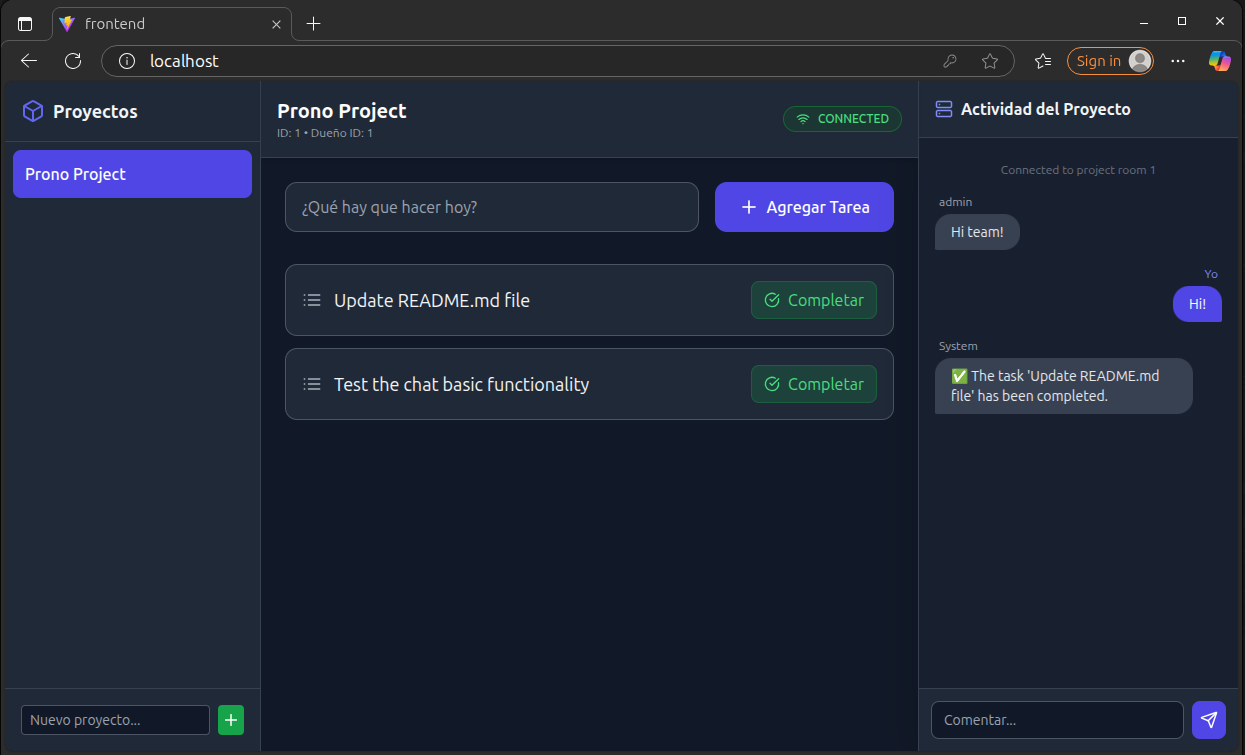
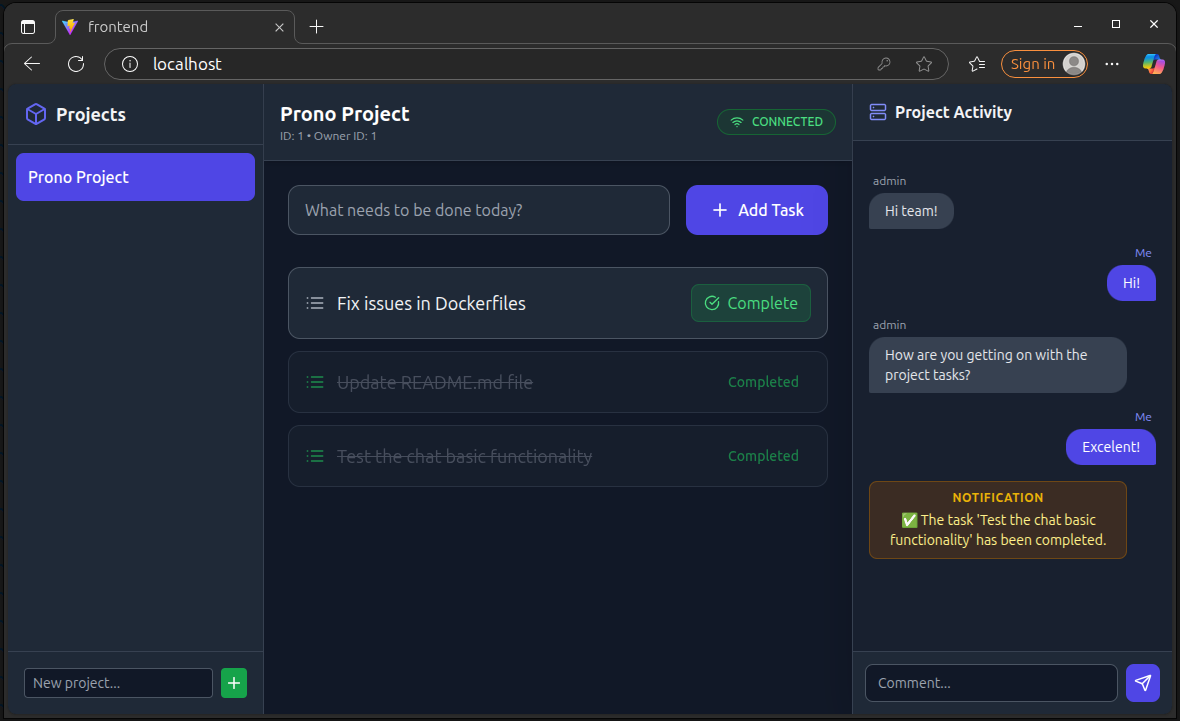
refactor: Translate frontend UI and comments from Spanish to English, and update the demo image.

diff --git a/frontend/src/App.tsx b/frontend/src/App.tsx
@@ -1,7 +1,6 @@
 import React, { useState, useEffect, useRef, useCallback } from "react";
 import {
   Send,
-  User,
   Server,
   Wifi,
   WifiOff,
@@ -11,7 +10,7 @@ import {
   Box,
 } from "lucide-react";
 
-// --- CONFIGURACIÓN ---
+// --- CONFIGURATION ---
 const API_URL = "http://localhost:80/api";
 const WS_URL = "ws://localhost:80/ws/projects";
 
@@ -53,7 +52,7 @@ const usePronoSocket = (projectId: number | null, token: string | null) => {
   useEffect(() => {
     if (!projectId || !token) return;
 
-    // Resetear mensajes al cambiar de proyecto
+    // Reset messages when changing projects
     setMessages([]);
 
     const ws = new WebSocket(`${WS_URL}/${projectId}/?token=${token}`);
@@ -62,12 +61,12 @@ const usePronoSocket = (projectId: number | null, token: string | null) => {
 
     ws.onopen = () => {
       setStatus("CONNECTED");
-      console.log("🔌 WS Conectado");
+      console.log("🔌 WS Connected");
     };
 
     ws.onclose = () => {
       setStatus("DISCONNECTED");
-      console.log("🔌 WS Desconectado");
+      console.log("🔌 WS Disconnected");
     };
 
     ws.onmessage = (event) => {
@@ -124,7 +123,7 @@ function App() {
 
   // --- API CALLS ---
 
-  // 1. Cargar Proyectos
+  // 1. Load Projects
   const fetchProjects = useCallback(async () => {
     if (!token) return;
     const res = await fetch(`${API_URL}/projects/`, {
@@ -133,27 +132,27 @@ function App() {
     if (res.ok) {
       const data = await res.json();
       setProjects(data);
-      // Seleccionar el primero por defecto si no hay seleccionado
+      // Select the first one by default if none selected
       if (!selectedProject && data.length > 0) setSelectedProject(data[0]);
     }
   }, [token, selectedProject]);
 
-  // 2. Cargar Tareas (Cuando cambia el proyecto)
+  // 2. Load Tasks (When project changes)
   const fetchTasks = useCallback(async () => {
     if (!token || !selectedProject) return;
-    // Django Ninja endpoint para detalles del proyecto (incluye tareas anidadas o lo hacemos aparte)
-    // Usaremos el endpoint de detalle que creamos: GET /projects/{id}
+    // Django Ninja endpoint for project details (includes nested tasks or separate)
+    // We'll use the detail endpoint we created: GET /projects/{id}
     const res = await fetch(`${API_URL}/projects/${selectedProject.id}`, {
       headers: { Authorization: `Bearer ${token}` },
     });
     if (res.ok) {
       const data = await res.json();
-      // Asumiendo que el serializer ProjectOut devuelve 'tasks'
+      // Assuming the ProjectOut serializer returns 'tasks'
       setTasks(data.tasks || []);
     }
   }, [token, selectedProject]);
 
-  // Efectos de carga
+  // Loading effects
   useEffect(() => {
     fetchProjects();
   }, [fetchProjects]);
@@ -175,11 +174,11 @@ function App() {
         const data: AuthToken = await response.json();
         setToken(data.access);
       } else {
-        alert("Credenciales incorrectas");
+        alert("Invalid credentials");
       }
     } catch (err) {
       console.error(err);
-      alert("Error de conexión");
+      alert("Connection error");
     }
   };
 
@@ -213,7 +212,7 @@ function App() {
     });
     if (res.ok) {
       setNewTaskTitle("");
-      fetchTasks(); // Recargar tareas
+      fetchTasks(); // Reload tasks
     }
   };
 
@@ -223,10 +222,10 @@ function App() {
       headers: { Authorization: `Bearer ${token}` },
     });
     if (res.ok) {
-      fetchTasks(); // Actualizar UI local
-      // NOTA: La notificación WebSocket llegará por el chat automáticamente ;)
+      fetchTasks(); // Update local UI
+      // NOTE: WebSocket notification will arrive via chat automatically ;)
     } else {
-      alert("Error o no tienes permisos");
+      alert("Error or insufficient permissions");
     }
   };
 
@@ -251,19 +250,19 @@ function App() {
             Prono System
           </h1>
           <p className="text-gray-400 text-center mb-6">
-            Plataforma de Gestión en Tiempo Real
+            Real-Time Management Platform
           </p>
           <form onSubmit={handleLogin} className="space-y-4">
             <input
               type="text"
-              placeholder="Usuario"
+              placeholder="Username"
               value={username}
               onChange={(e) => setUsername(e.target.value)}
               className="w-full bg-gray-900 border border-gray-600 rounded-lg p-3 text-white focus:ring-2 focus:ring-indigo-500 outline-none"
             />
             <input
               type="password"
-              placeholder="Contraseña"
+              placeholder="Password"
               value={password}
               onChange={(e) => setPassword(e.target.value)}
               className="w-full bg-gray-900 border border-gray-600 rounded-lg p-3 text-white focus:ring-2 focus:ring-indigo-500 outline-none"
@@ -272,7 +271,7 @@ function App() {
               type="submit"
               className="w-full bg-indigo-600 hover:bg-indigo-700 text-white font-bold py-3 rounded-lg transition"
             >
-              Ingresar
+              Sign In
             </button>
           </form>
         </div>
@@ -287,7 +286,7 @@ function App() {
       <aside className="w-64 bg-gray-800 border-r border-gray-700 flex flex-col">
         <div className="p-4 border-b border-gray-700 flex items-center gap-2">
           <Box className="text-indigo-500" />
-          <h2 className="font-bold text-lg">Proyectos</h2>
+          <h2 className="font-bold text-lg">Projects</h2>
         </div>
 
         <div className="flex-1 overflow-y-auto p-2 space-y-1">
@@ -306,7 +305,7 @@ function App() {
           <form onSubmit={handleCreateProject} className="flex gap-2">
             <input
               className="w-full bg-gray-900 border border-gray-600 rounded px-2 py-1 text-sm text-white"
-              placeholder="Nuevo proyecto..."
+              placeholder="New project..."
               value={newProjectName}
               onChange={(e) => setNewProjectName(e.target.value)}
             />
@@ -327,10 +326,10 @@ function App() {
             <h1 className="text-xl font-bold text-white">
               {selectedProject
                 ? selectedProject.name
-                : "Selecciona un proyecto"}
+                : "Select a project"}
             </h1>
             <p className="text-xs text-gray-400">
-              ID: {selectedProject?.id} • Dueño ID: {selectedProject?.owner_id}
+              ID: {selectedProject?.id} • Owner ID: {selectedProject?.owner_id}
             </p>
           </div>
           <div
@@ -347,12 +346,12 @@ function App() {
 
         {selectedProject ? (
           <div className="flex-1 p-6 overflow-y-auto">
-            {/* Formulario Nueva Tarea */}
+            {/* New Task Form */}
             <div className="mb-8">
               <form onSubmit={handleCreateTask} className="flex gap-4">
                 <input
                   className="flex-1 bg-gray-800 border border-gray-600 rounded-xl px-4 py-3 text-white focus:ring-2 focus:ring-indigo-500 outline-none"
-                  placeholder="¿Qué hay que hacer hoy?"
+                  placeholder="What needs to be done today?"
                   value={newTaskTitle}
                   onChange={(e) => setNewTaskTitle(e.target.value)}
                 />
@@ -360,16 +359,16 @@ function App() {
                   type="submit"
                   className="bg-indigo-600 hover:bg-indigo-700 text-white px-6 py-3 rounded-xl font-medium flex items-center gap-2"
                 >
-                  <Plus size={20} /> Agregar Tarea
+                  <Plus size={20} /> Add Task
                 </button>
               </form>
             </div>
 
-            {/* Lista de Tareas */}
+            {/* Task List */}
             <div className="space-y-3">
               {tasks.length === 0 && (
                 <p className="text-gray-500 text-center mt-10">
-                  No hay tareas aún.
+                  No tasks yet.
                 </p>
               )}
               {tasks.map((task) => (
@@ -395,12 +394,12 @@ function App() {
                       onClick={() => handleCompleteTask(task.id)}
                       className="flex items-center gap-2 px-3 py-1.5 bg-green-600/20 text-green-400 hover:bg-green-600 hover:text-white rounded-lg border border-green-600/30 transition"
                     >
-                      <CheckCircle size={16} /> Completar
+                      <CheckCircle size={16} /> Complete
                     </button>
                   )}
                   {task.is_completed && (
                     <span className="text-green-500 text-sm font-medium px-3">
-                      Completada
+                      Completed
                     </span>
                   )}
                 </div>
@@ -409,7 +408,7 @@ function App() {
           </div>
         ) : (
           <div className="flex-1 flex items-center justify-center text-gray-500">
-            Selecciona un proyecto para comenzar
+            Select a project to get started
           </div>
         )}
       </main>
@@ -419,13 +418,13 @@ function App() {
         <div className="p-4 border-b border-gray-700 bg-gray-800">
           <h3 className="font-bold flex items-center gap-2">
             <Server size={18} className="text-indigo-400" />
-            Actividad del Proyecto
+            Project Activity
           </h3>
         </div>
 
         <div className="flex-1 overflow-y-auto p-4 space-y-4 bg-gray-900/50">
           {messages.map((msg, idx) => {
-            const isSystem = msg.sender === "Sistema";
+            const isSystem = msg.sender === "System";
             const isMe = msg.sender === username;
 
             if (msg.type === "connection_established") {
@@ -434,7 +433,7 @@ function App() {
                   key={idx}
                   className="text-center text-xs text-gray-500 my-2"
                 >
-                  {msg.message}
+                  {msg.text}
                 </div>
               );
             }
@@ -450,21 +449,20 @@ function App() {
                   </span>
                 )}
                 {isMe && !isSystem && (
-                  <span className="text-xs text-indigo-400 mb-1 mr-1">Yo</span>
+                  <span className="text-xs text-indigo-400 mb-1 mr-1">Me</span>
                 )}
 
                 <div
-                  className={`px-4 py-2 rounded-2xl max-w-[90%] text-sm ${
-                    isSystem
-                      ? "bg-yellow-900/40 text-yellow-200 border border-yellow-700/50 w-full text-center rounded-lg"
-                      : isMe
-                        ? "bg-indigo-600 text-white rounded-br-sm"
-                        : "bg-gray-700 text-gray-200 rounded-bl-sm"
-                  }`}
+                  className={`px-4 py-2 rounded-2xl max-w-[90%] text-sm ${isSystem
+                    ? "bg-yellow-900/40 text-yellow-200 border border-yellow-700/50 w-full text-center rounded-lg"
+                    : isMe
+                      ? "bg-indigo-600 text-white rounded-br-sm"
+                      : "bg-gray-700 text-gray-200 rounded-bl-sm"
+                    }`}
                 >
                   {isSystem && (
                     <strong className="block text-xs uppercase tracking-wider mb-1 text-yellow-500">
-                      Notificación
+                      Notification
                     </strong>
                   )}
                   {msg.text}
@@ -478,7 +476,7 @@ function App() {
           <form onSubmit={handleSendChat} className="flex gap-2">
             <input
               className="flex-1 bg-gray-900 border border-gray-600 rounded-lg px-3 py-2 text-sm text-white focus:ring-1 focus:ring-indigo-500 outline-none"
-              placeholder="Comentar..."
+              placeholder="Comment..."
               value={chatInput}
               onChange={(e) => setChatInput(e.target.value)}
               disabled={!selectedProject}
